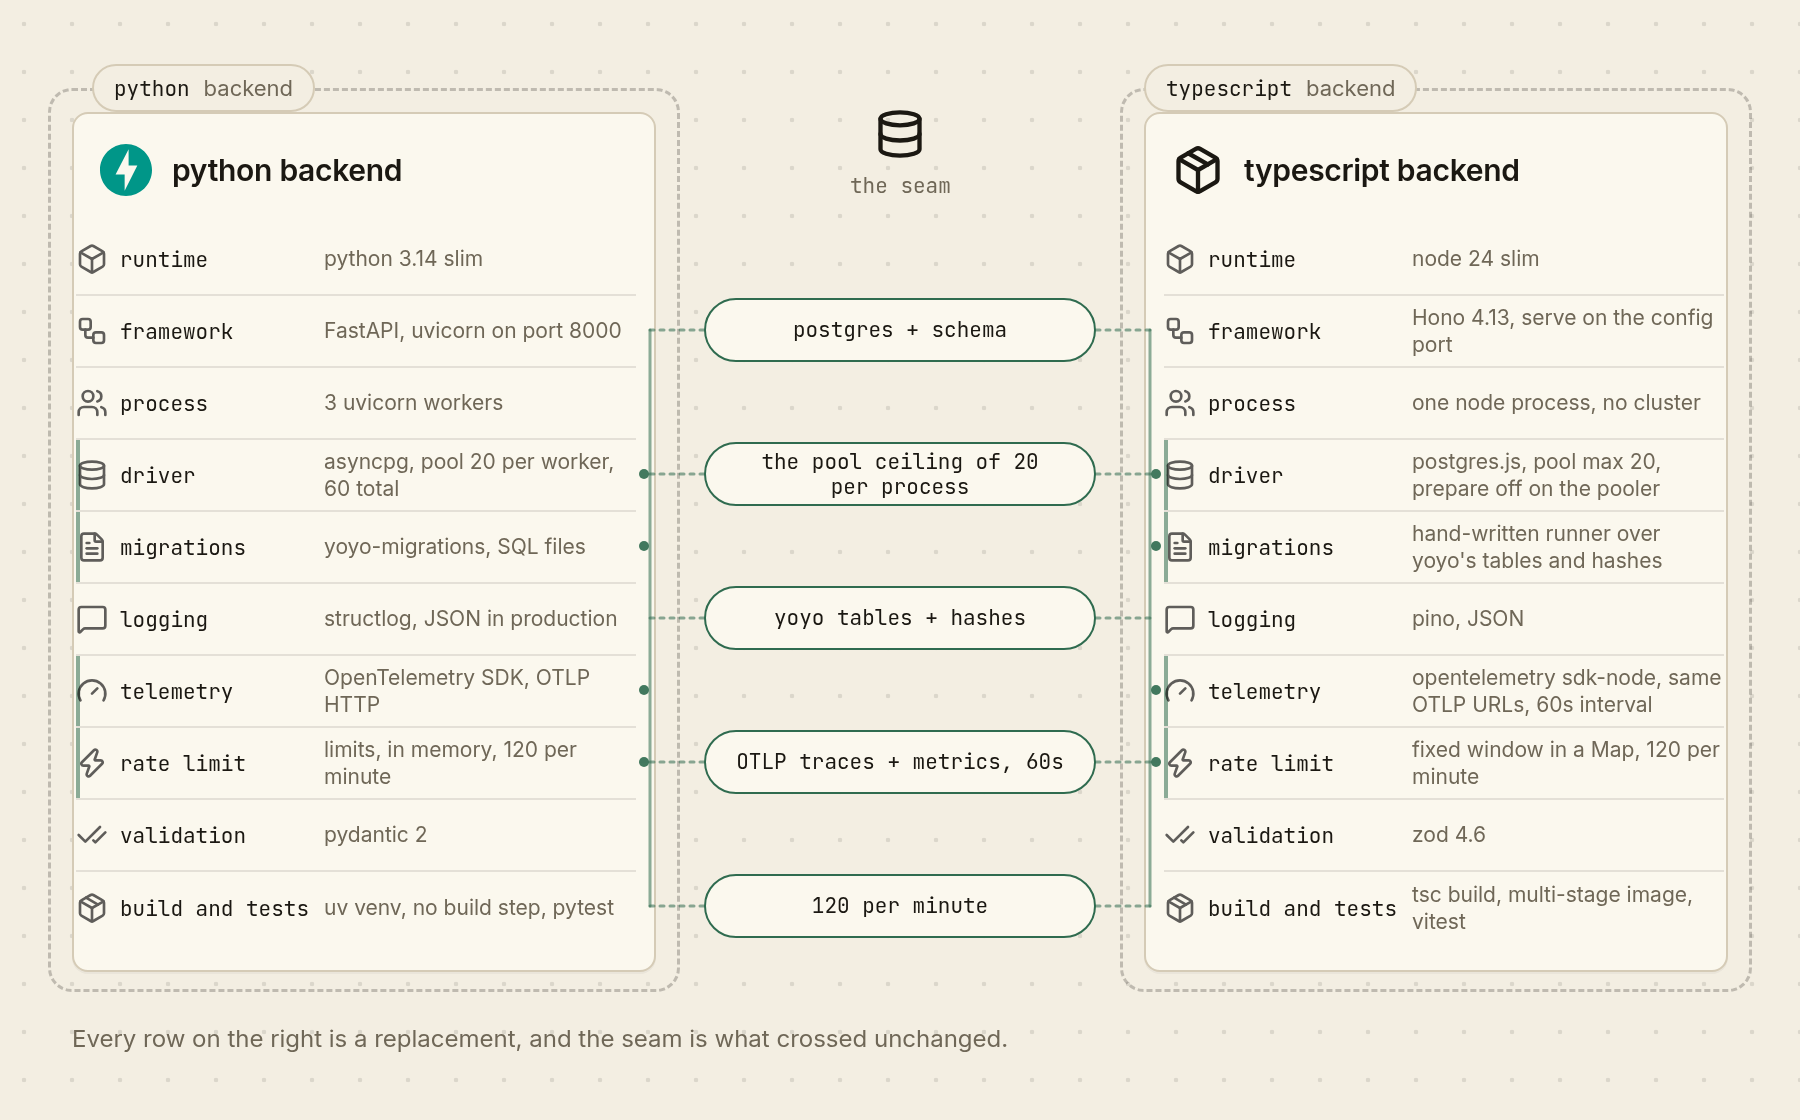
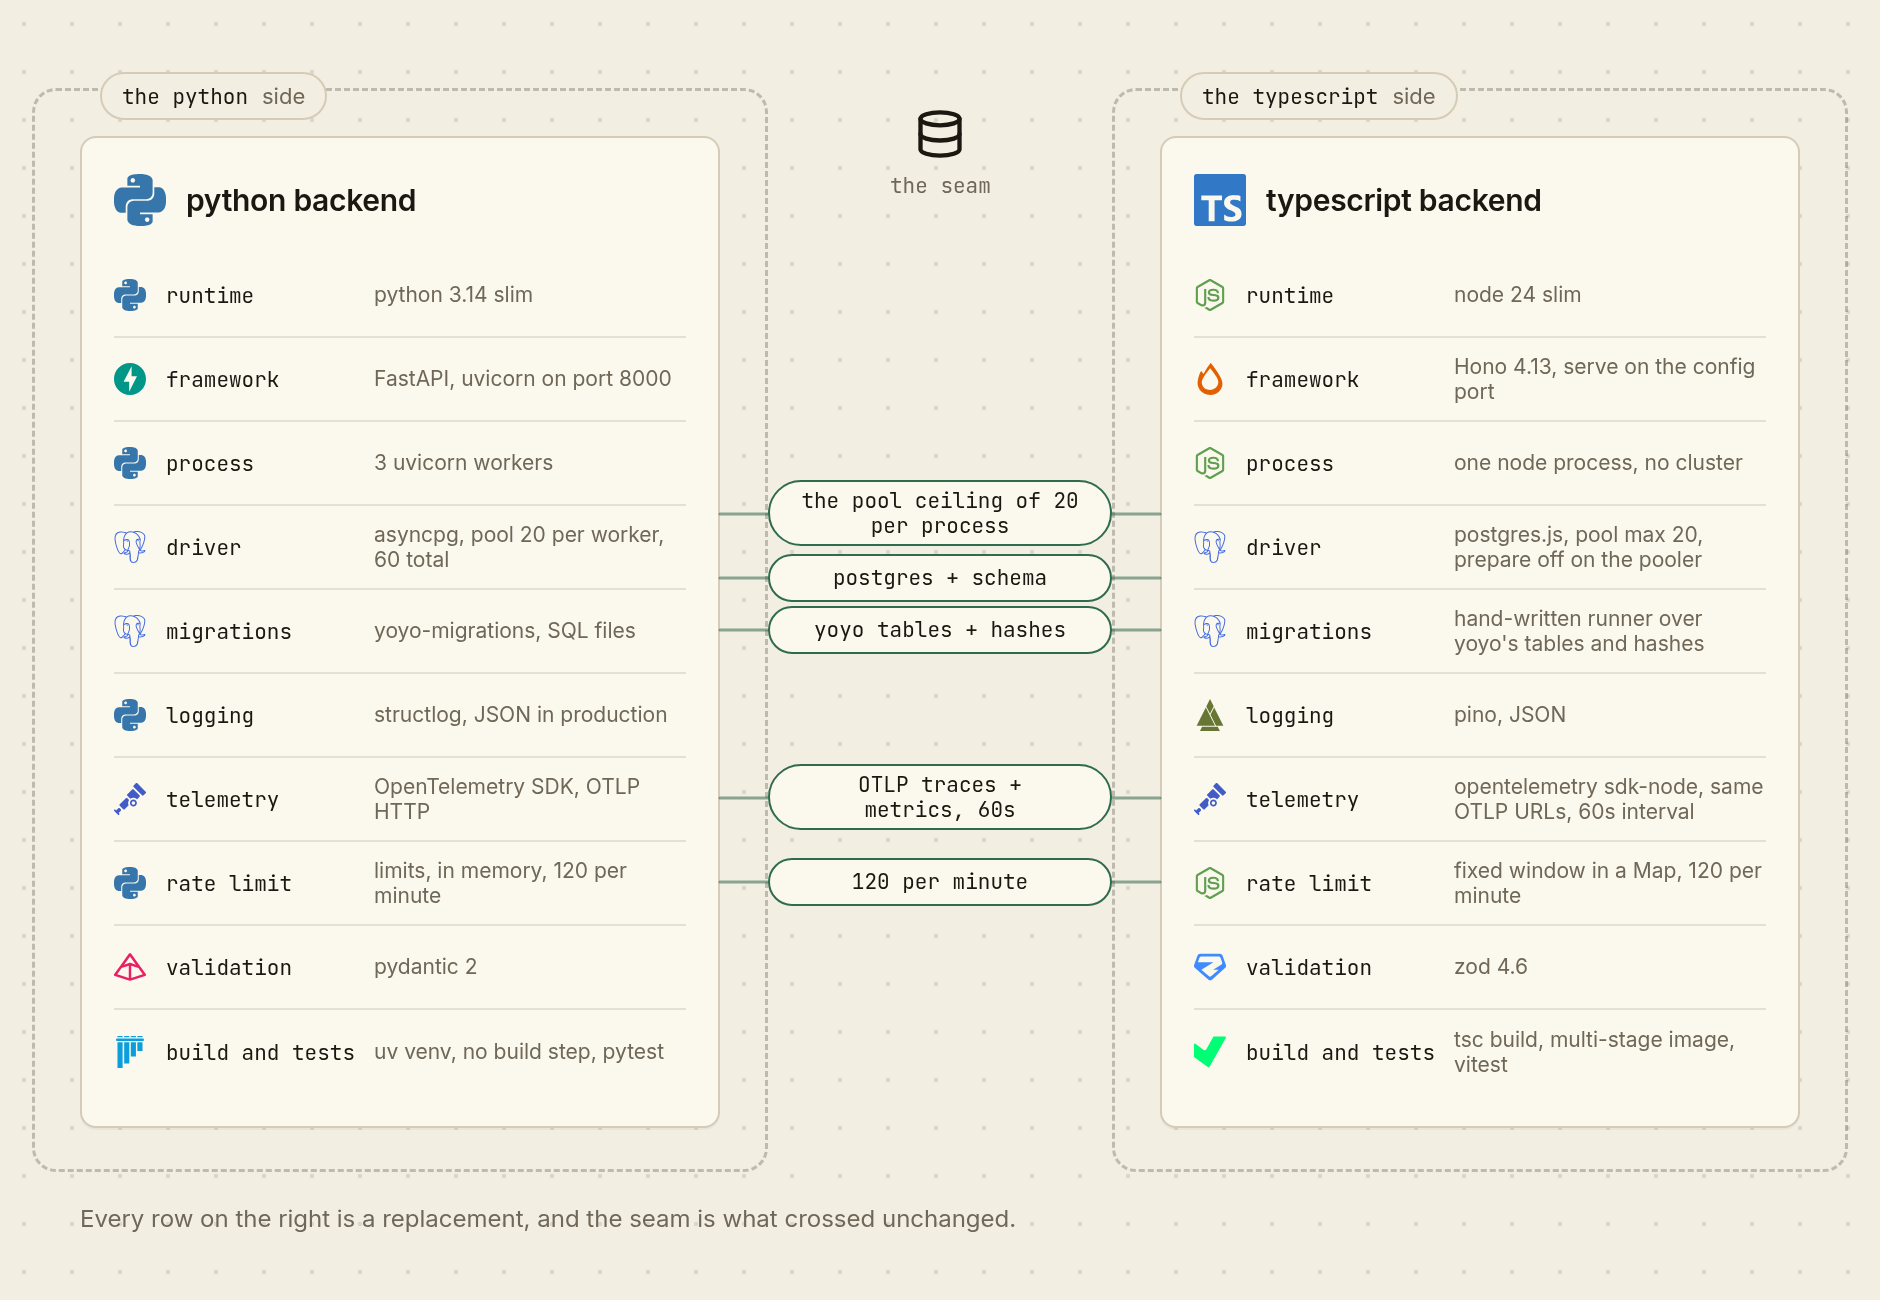
feat(diagram): give the port figure official tech marks

diff --git a/frontend/scripts/diagrams/sre-port.html b/frontend/scripts/diagrams/sre-port.html
@@ -18,8 +18,8 @@
     html, body { background: var(--paper); }
     #canvas {
         position: relative;
-        width: 900px;
-        height: 560px;
+        width: 940px;
+        height: 650px;
         overflow: hidden;
         background-color: var(--paper);
         background-image: radial-gradient(circle, rgba(27, 24, 18, 0.11) 1px, transparent 1.3px);
@@ -48,9 +48,10 @@
     .pill.zone-label .tag { font-family: "JetBrains Mono", "DejaVu Sans Mono", monospace; font-size: 10.5px; color: var(--ink); }
     .pill.zone-label .sub { font-size: 11px; color: var(--muted); }
     .pill.seam {
-        height: 32px;
-        width: 196px;
-        padding: 0 12px;
+        height: auto;
+        min-height: 24px;
+        width: 172px;
+        padding: 3px 12px;
         justify-content: center;
         border-color: var(--accent);
         background: var(--panel);
@@ -58,12 +59,13 @@
         font-size: 10.5px;
         line-height: 1.2;
         text-align: center;
+        text-wrap: balance;
         white-space: normal;
         color: var(--ink);
     }
     .card {
         position: absolute;
-        padding: 13px;
+        padding: 16px;
         background: var(--panel);
         border: 1px solid var(--line);
         border-radius: 8px;
@@ -73,33 +75,32 @@
     .card .hd { display: flex; align-items: center; gap: 10px; height: 30px; }
     .card .hd img { width: 26px; height: 26px; flex: none; }
     .card .hd .title { font-size: 15px; font-weight: 600; letter-spacing: -0.01em; line-height: 1.2; }
-    .rows { margin-top: 12px; }
-    .card.py .rows { margin-left: -12px; margin-right: -4px; }
-    .card.ts .rows { margin-left: -4px; margin-right: -12px; }
+    .rows { margin: 12px 0 0; }
     .r {
         display: flex;
         align-items: center;
-        gap: 6px;
-        height: 36px;
+        gap: 8px;
+        height: 42px;
+        padding: 8px 0;
         border-bottom: 1px solid rgba(27, 24, 18, 0.1);
     }
     .r:last-child { border-bottom: none; }
     .r .k {
         flex: none;
+        margin-left: 2px;
         width: 96px;
         font-family: "JetBrains Mono", "DejaVu Sans Mono", monospace;
         font-size: 10.5px;
         color: var(--ink);
         white-space: nowrap;
     }
-    .r .v { font-size: 10.5px; color: var(--muted); line-height: 1.3; }
-    .r .i { flex: none; width: 16px; height: 16px; filter: brightness(0); opacity: 0.62; }
-    .r.on { box-shadow: inset 2px 0 0 rgba(47, 107, 79, 0.55); }
+    .r .v { flex: 1; min-width: 0; font-size: 10.5px; color: var(--muted); line-height: 1.2; }
+    .r .i { flex: none; width: 16px; height: 16px; }
     .seam-mark { position: absolute; font-family: "JetBrains Mono", "DejaVu Sans Mono", monospace; font-size: 10.5px; color: var(--muted); z-index: 3; }
     .legend {
         position: absolute;
-        left: 36px;
-        top: 512px;
+        left: 40px;
+        top: 602px;
         display: flex;
         align-items: center;
         font-size: 12px;
@@ -110,79 +111,68 @@
 </head>
 <body>
 <div id="canvas">
-    <svg id="wires" viewBox="0 0 900 560" xmlns="http://www.w3.org/2000/svg">
-        <g fill="none" stroke="#2f6b4f" stroke-linecap="round">
-            <g stroke-width="1.5" opacity="0.55">
-                <path d="M325,165 V453" /><path d="M575,165 V453" />
-            </g>
-            <g stroke-width="1.5" stroke-dasharray="2 3" opacity="0.55">
-                <path d="M352,165 H325" /><path d="M548,165 H575" />
-                <path d="M352,237 H325" /><path d="M548,237 H575" />
-                <path d="M352,309 H325" /><path d="M548,309 H575" />
-                <path d="M352,381 H325" /><path d="M548,381 H575" />
-                <path d="M352,453 H325" /><path d="M548,453 H575" />
-            </g>
-        </g>
-        <g fill="#2f6b4f" opacity="0.9">
-            <circle cx="322" cy="237" r="2.5" /><circle cx="322" cy="273" r="2.5" />
-            <circle cx="322" cy="345" r="2.5" /><circle cx="322" cy="381" r="2.5" />
-            <circle cx="578" cy="237" r="2.5" /><circle cx="578" cy="273" r="2.5" />
-            <circle cx="578" cy="345" r="2.5" /><circle cx="578" cy="381" r="2.5" />
+    <svg id="wires" viewBox="0 0 940 650" xmlns="http://www.w3.org/2000/svg">
+        <g fill="none" stroke="#2f6b4f" stroke-width="1.5" stroke-linecap="round" opacity="0.55">
+            <path d="M360,257 H384" /><path d="M556,257 H580" />
+            <path d="M360,289 H384" /><path d="M556,289 H580" />
+            <path d="M360,315 H384" /><path d="M556,315 H580" />
+            <path d="M360,399 H384" /><path d="M556,399 H580" />
+            <path d="M360,441 H384" /><path d="M556,441 H580" />
         </g>
     </svg>
 
-    <div class="zone" style="left:24px; top:44px; width:316px; height:452px;"></div>
-    <div class="zone" style="left:560px; top:44px; width:316px; height:452px;"></div>
+    <div class="zone" style="left:16px; top:44px; width:368px; height:542px;"></div>
+    <div class="zone" style="left:556px; top:44px; width:368px; height:542px;"></div>
 
-    <div class="pill zone-label" style="left:46px; top:32px;"><span class="tag">python</span><span class="sub">backend</span></div>
-    <div class="pill zone-label" style="left:572px; top:32px;"><span class="tag">typescript</span><span class="sub">backend</span></div>
+    <div class="pill zone-label" style="left:50px; top:36px;"><span class="tag">the python</span><span class="sub">side</span></div>
+    <div class="pill zone-label" style="left:590px; top:36px;"><span class="tag">the typescript</span><span class="sub">side</span></div>
 
-    <img src="icons/line/database.svg" alt="" style="position:absolute; left:437px; top:54px; width:26px; height:26px; z-index:3;" />
-    <div class="seam-mark" style="left:425px; top:86px;">the seam</div>
+    <img src="icons/line/database.svg" alt="" style="position:absolute; left:457px; top:54px; width:26px; height:26px; z-index:3;" />
+    <div class="seam-mark" style="left:445px; top:86px;">the seam</div>
 
-    <div class="card py" style="left:36px; top:56px; width:292px;">
+    <div class="card py" style="left:40px; top:68px; width:320px;">
         <div class="hd">
-            <img src="icons/brands/fastapi.svg" alt="" />
+            <img src="icons/brands/python.svg" alt="" />
             <div class="title">python backend</div>
         </div>
         <div class="rows">
-            <div class="r"><img class="i" src="icons/line/box.svg" alt="" /><span class="k">runtime</span><span class="v">python 3.14 slim</span></div>
-            <div class="r"><img class="i" src="icons/line/workflow.svg" alt="" /><span class="k">framework</span><span class="v">FastAPI, uvicorn on port 8000</span></div>
-            <div class="r"><img class="i" src="icons/line/users.svg" alt="" /><span class="k">process</span><span class="v">3 uvicorn workers</span></div>
-            <div class="r on"><img class="i" src="icons/line/database.svg" alt="" /><span class="k">driver</span><span class="v">asyncpg, pool 20 per worker, 60 total</span></div>
-            <div class="r on"><img class="i" src="icons/line/file-text.svg" alt="" /><span class="k">migrations</span><span class="v">yoyo-migrations, SQL files</span></div>
-            <div class="r"><img class="i" src="icons/line/message-square.svg" alt="" /><span class="k">logging</span><span class="v">structlog, JSON in production</span></div>
-            <div class="r on"><img class="i" src="icons/line/gauge.svg" alt="" /><span class="k">telemetry</span><span class="v">OpenTelemetry SDK, OTLP HTTP</span></div>
-            <div class="r on"><img class="i" src="icons/line/zap.svg" alt="" /><span class="k">rate limit</span><span class="v">limits, in memory, 120 per minute</span></div>
-            <div class="r"><img class="i" src="icons/line/check-check.svg" alt="" /><span class="k">validation</span><span class="v">pydantic 2</span></div>
-            <div class="r"><img class="i" src="icons/line/package.svg" alt="" /><span class="k">build and tests</span><span class="v">uv venv, no build step, pytest</span></div>
+            <div class="r"><img class="i" src="icons/brands/python.svg" alt="" /><span class="k">runtime</span><span class="v">python 3.14 slim</span></div>
+            <div class="r"><img class="i" src="icons/brands/fastapi.svg" alt="" /><span class="k">framework</span><span class="v">FastAPI, uvicorn on port 8000</span></div>
+            <div class="r"><img class="i" src="icons/brands/python.svg" alt="" /><span class="k">process</span><span class="v">3 uvicorn workers</span></div>
+            <div class="r"><img class="i" src="icons/brands/postgresql.svg" alt="" /><span class="k">driver</span><span class="v">asyncpg, pool 20 per worker, 60 total</span></div>
+            <div class="r"><img class="i" src="icons/brands/postgresql.svg" alt="" /><span class="k">migrations</span><span class="v">yoyo-migrations, SQL files</span></div>
+            <div class="r"><img class="i" src="icons/brands/python.svg" alt="" /><span class="k">logging</span><span class="v">structlog, JSON in production</span></div>
+            <div class="r"><img class="i" src="icons/brands/opentelemetry.svg" alt="" /><span class="k">telemetry</span><span class="v">OpenTelemetry SDK, OTLP HTTP</span></div>
+            <div class="r"><img class="i" src="icons/brands/python.svg" alt="" /><span class="k">rate limit</span><span class="v">limits, in memory, 120 per minute</span></div>
+            <div class="r"><img class="i" src="icons/brands/pydantic.svg" alt="" /><span class="k">validation</span><span class="v">pydantic 2</span></div>
+            <div class="r"><img class="i" src="icons/brands/pytest.svg" alt="" /><span class="k">build and tests</span><span class="v">uv venv, no build step, pytest</span></div>
         </div>
     </div>
 
-    <div class="card ts" style="left:572px; top:56px; width:292px;">
+    <div class="card ts" style="left:580px; top:68px; width:320px;">
         <div class="hd">
-            <img src="icons/line/package.svg" alt="" />
+            <img src="icons/brands/typescript.svg" alt="" />
             <div class="title">typescript backend</div>
         </div>
         <div class="rows">
-            <div class="r"><img class="i" src="icons/line/box.svg" alt="" /><span class="k">runtime</span><span class="v">node 24 slim</span></div>
-            <div class="r"><img class="i" src="icons/line/workflow.svg" alt="" /><span class="k">framework</span><span class="v">Hono 4.13, serve on the config port</span></div>
-            <div class="r"><img class="i" src="icons/line/users.svg" alt="" /><span class="k">process</span><span class="v">one node process, no cluster</span></div>
-            <div class="r on"><img class="i" src="icons/line/database.svg" alt="" /><span class="k">driver</span><span class="v">postgres.js, pool max 20, prepare off on the pooler</span></div>
-            <div class="r on"><img class="i" src="icons/line/file-text.svg" alt="" /><span class="k">migrations</span><span class="v">hand-written runner over yoyo's tables and hashes</span></div>
-            <div class="r"><img class="i" src="icons/line/message-square.svg" alt="" /><span class="k">logging</span><span class="v">pino, JSON</span></div>
-            <div class="r on"><img class="i" src="icons/line/gauge.svg" alt="" /><span class="k">telemetry</span><span class="v">opentelemetry sdk-node, same OTLP URLs, 60s interval</span></div>
-            <div class="r on"><img class="i" src="icons/line/zap.svg" alt="" /><span class="k">rate limit</span><span class="v">fixed window in a Map, 120 per minute</span></div>
-            <div class="r"><img class="i" src="icons/line/check-check.svg" alt="" /><span class="k">validation</span><span class="v">zod 4.6</span></div>
-            <div class="r"><img class="i" src="icons/line/package.svg" alt="" /><span class="k">build and tests</span><span class="v">tsc build, multi-stage image, vitest</span></div>
+            <div class="r"><img class="i" src="icons/brands/nodedotjs.svg" alt="" /><span class="k">runtime</span><span class="v">node 24 slim</span></div>
+            <div class="r"><img class="i" src="icons/brands/hono.svg" alt="" /><span class="k">framework</span><span class="v">Hono 4.13, serve on the config port</span></div>
+            <div class="r"><img class="i" src="icons/brands/nodedotjs.svg" alt="" /><span class="k">process</span><span class="v">one node process, no cluster</span></div>
+            <div class="r"><img class="i" src="icons/brands/postgresql.svg" alt="" /><span class="k">driver</span><span class="v">postgres.js, pool max 20, prepare off on the pooler</span></div>
+            <div class="r"><img class="i" src="icons/brands/postgresql.svg" alt="" /><span class="k">migrations</span><span class="v">hand-written runner over yoyo's tables and hashes</span></div>
+            <div class="r"><img class="i" src="icons/brands/pino.svg" alt="" /><span class="k">logging</span><span class="v">pino, JSON</span></div>
+            <div class="r"><img class="i" src="icons/brands/opentelemetry.svg" alt="" /><span class="k">telemetry</span><span class="v">opentelemetry sdk-node, same OTLP URLs, 60s interval</span></div>
+            <div class="r"><img class="i" src="icons/brands/nodedotjs.svg" alt="" /><span class="k">rate limit</span><span class="v">fixed window in a Map, 120 per minute</span></div>
+            <div class="r"><img class="i" src="icons/brands/zod.svg" alt="" /><span class="k">validation</span><span class="v">zod 4.6</span></div>
+            <div class="r"><img class="i" src="icons/brands/vitest.svg" alt="" /><span class="k">build and tests</span><span class="v">tsc build, multi-stage image, vitest</span></div>
         </div>
     </div>
 
-    <div class="pill seam" style="left:352px; top:149px;">postgres + schema</div>
-    <div class="pill seam" style="left:352px; top:221px;">the pool ceiling of 20<br />per process</div>
-    <div class="pill seam" style="left:352px; top:293px;">yoyo tables + hashes</div>
-    <div class="pill seam" style="left:352px; top:365px;">OTLP traces + metrics, 60s</div>
-    <div class="pill seam" style="left:352px; top:437px;">120 per minute</div>
+    <div class="pill seam" style="left:384px; top:240px;">the pool ceiling of 20<br />per process</div>
+    <div class="pill seam" style="left:384px; top:277px;">postgres + schema</div>
+    <div class="pill seam" style="left:384px; top:303px;">yoyo tables + hashes</div>
+    <div class="pill seam" style="left:384px; top:382px;">OTLP traces + metrics, 60s</div>
+    <div class="pill seam" style="left:384px; top:429px;">120 per minute</div>
 
     <div class="legend">Every row on the right is a replacement, and the seam is what crossed unchanged.</div>
 </div>
